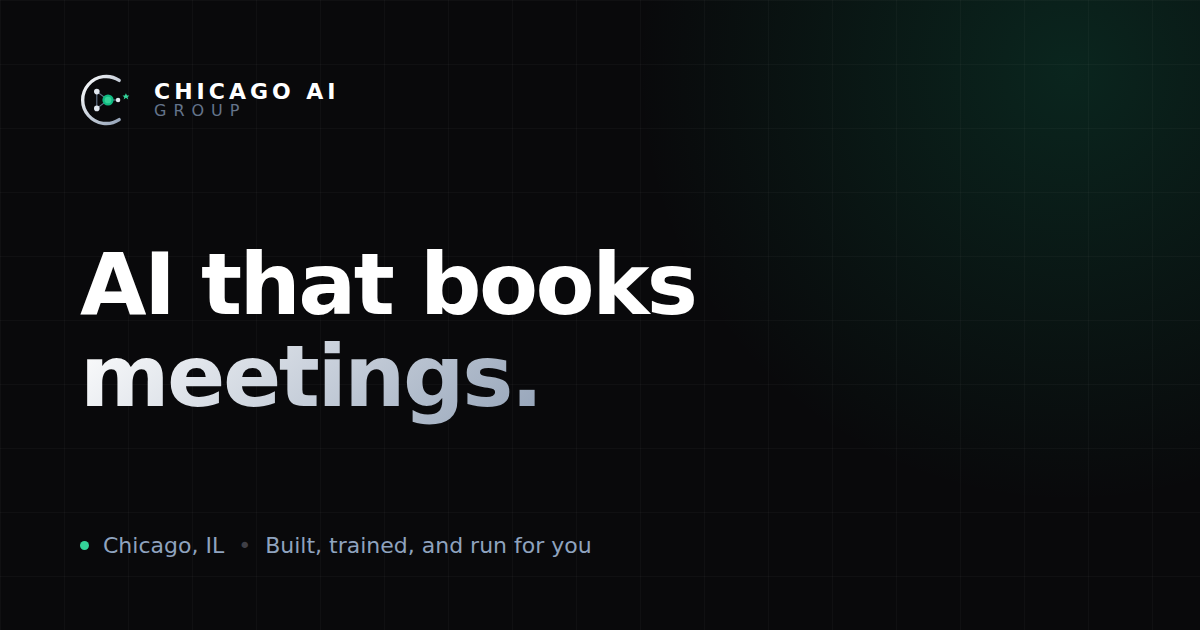
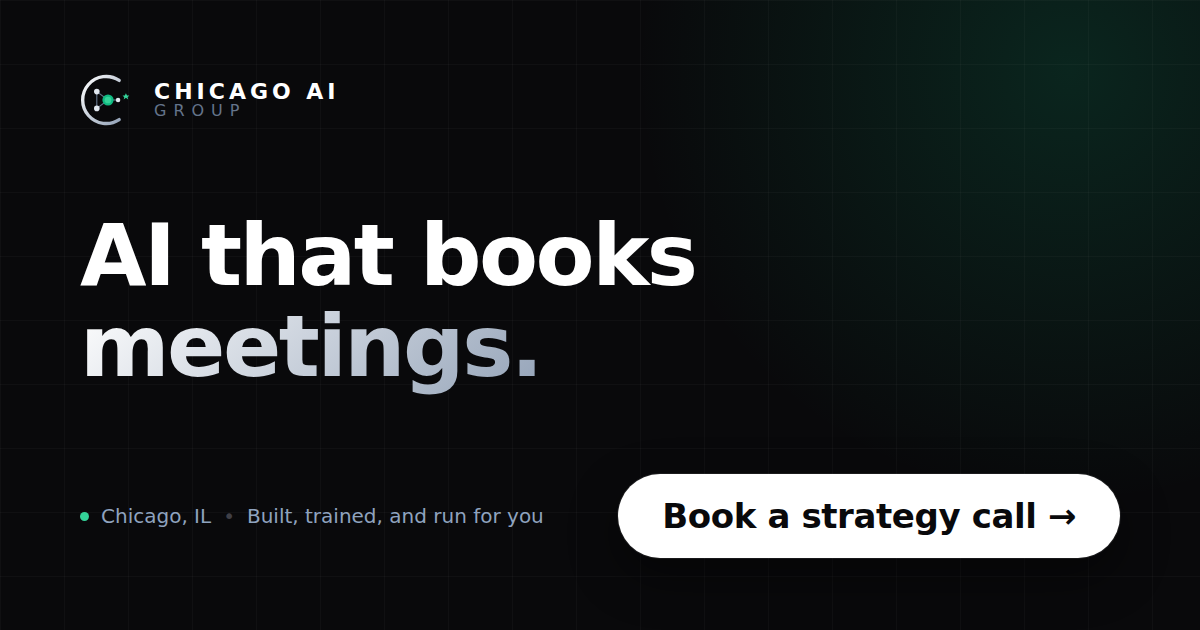
Shorten the share description and put the call to action on the card
Two inspector warnings. The homepage description ran 150 characters and was
cut mid-word at the ~125 a mobile unfurl shows -- it ended on "Built and run
fo". And the card carried the headline but nothing telling anyone what to do
next.

Description drops to 107 characters, still naming who it is for, what we do
and the timeline. One string per route feeds the meta description, the
og:description and the twitter:description, so they cannot drift. The other
routes were already 64-106 and are unchanged.

The card gains the site's white pill reading "Book a strategy call ->" in the
bottom right, opposite the location line. Everything else stays: the ground,
the grid, the mark, the headline. Setting the meta line to one line at 20px
keeps it from wrapping now that the pill takes the right half.

og:image and twitter:image gain ?v=2, without which scrapers would serve the
old card from cache indefinitely. Width and height stay 1200x630, and the alt
text now mentions the call.

The generator lived only in a scratch directory and was lost once already when
this container was rebuilt, so it now sits in scripts/og-card.html with the
re-render command and the cache-bust rule in a comment. It is the artwork, not
a copy of it.

Claude-Session: https://claude.ai/code/session_01SA99gUkuHrJz6VosbbMM5R

Changed region(s): [[0.0617, 0.3317, 0.5858, 0.6937], [0.4933, 0.754, 0.9558, 0.9048], [0.0617, 0.8143, 0.4933, 0.9048]]

diff --git a/scripts/og-card.html b/scripts/og-card.html
@@ -1,0 +1,83 @@
+<!doctype html>
+<!--
+  Source for public/og-image.png (the Open Graph / Twitter share card).
+
+  This file IS the artwork. Edit here, then re-render at exactly 1200x630 and
+  overwrite public/og-image.png, e.g. with a headless browser:
+
+    npx playwright screenshot --viewport-size=1200,630 \
+      scripts/og-card.html public/og-image.png
+
+  After changing the PNG, bump the ?v= cache-bust on og:image and twitter:image
+  in src/seo.js and index.html, or scrapers will keep serving the old card.
+
+  Keep type inside the 60px safe zone (this layout uses 72/80px padding) and keep
+  the CTA large enough to read where Slack renders the card at ~400px wide.
+-->
+<html>
+<head>
+<meta charset="utf-8">
+<link rel="preconnect" href="https://fonts.googleapis.com">
+<link rel="preconnect" href="https://fonts.gstatic.com" crossorigin>
+<link href="https://fonts.googleapis.com/css2?family=Inter:wght@400;500;600;700;800&display=swap" rel="stylesheet">
+<style>
+  * { margin:0; padding:0; box-sizing:border-box; }
+  body { width:1200px; height:630px; background:#09090b; font-family:'Inter',system-ui,sans-serif; color:#fff;
+         display:flex; flex-direction:column; justify-content:space-between; padding:72px 80px; position:relative; overflow:hidden; }
+  .glow { position:absolute; width:900px; height:900px; border-radius:50%; right:-320px; top:-380px;
+          background:radial-gradient(circle, rgba(16,185,129,0.16) 0%, rgba(16,185,129,0) 68%); }
+  .grid { position:absolute; inset:0;
+          background-image:linear-gradient(rgba(255,255,255,0.028) 1px, transparent 1px),
+                           linear-gradient(90deg, rgba(255,255,255,0.028) 1px, transparent 1px);
+          background-size:64px 64px; }
+  .row { display:flex; align-items:center; gap:18px; position:relative; }
+  .word { display:flex; flex-direction:column; line-height:1; }
+  .word .a { font-weight:600; letter-spacing:4px; font-size:22px; }
+  .word .b { font-weight:500; letter-spacing:7px; font-size:16px; color:#64748b; }
+  h1 { position:relative; font-size:86px; font-weight:800; letter-spacing:-2.5px; line-height:1.06; max-width:900px; }
+  h1 em { font-style:normal; background:linear-gradient(135deg,#fff 0%,#94a3b8 100%);
+          -webkit-background-clip:text; -webkit-text-fill-color:transparent; }
+  .bottom { position:relative; display:flex; align-items:center; justify-content:space-between; gap:40px; }
+  .meta { display:flex; align-items:center; gap:12px; font-size:20px; color:#8fa3bf; white-space:nowrap; }
+  .dot { width:9px; height:9px; border-radius:50%; background:#34d399; }
+  .sep { color:#3f3f46; }
+  /* Site's primary button: solid white pill, dark label. Sized to stay legible
+     when the card is scaled down to roughly a third for an inline unfurl. */
+  .cta { background:#fff; color:#09090b; font-size:34px; font-weight:700; letter-spacing:-0.4px;
+         padding:22px 44px; border-radius:999px; white-space:nowrap;
+         box-shadow:0 0 0 1px rgba(255,255,255,0.08), 0 18px 50px rgba(0,0,0,0.45); }
+</style>
+</head>
+<body>
+  <div class="glow"></div>
+  <div class="grid"></div>
+
+  <div class="row">
+    <svg width="56" height="56" viewBox="0 0 100 100" fill="none" xmlns="http://www.w3.org/2000/svg">
+      <path d="M70 15 A42 42 0 1 0 70 85" stroke="url(#g)" stroke-width="6" stroke-linecap="round" fill="none"/>
+      <line x1="30" y1="35" x2="50" y2="50" stroke="#64748b" stroke-width="2"/>
+      <line x1="30" y1="65" x2="50" y2="50" stroke="#64748b" stroke-width="2"/>
+      <line x1="30" y1="35" x2="30" y2="65" stroke="#64748b" stroke-width="2"/>
+      <line x1="50" y1="50" x2="68" y2="50" stroke="#64748b" stroke-width="2"/>
+      <circle cx="30" cy="35" r="5" fill="#e2e8f0"/><circle cx="30" cy="65" r="5" fill="#e2e8f0"/>
+      <circle cx="68" cy="50" r="4" fill="#e2e8f0"/>
+      <circle cx="50" cy="50" r="10" fill="#10b981"/><circle cx="50" cy="50" r="6" fill="#34d399"/>
+      <polygon points="82,38 84,42 88,42 85,45 86,49 82,46 78,49 79,45 76,42 80,42" fill="#34d399"/>
+      <defs><linearGradient id="g" x1="0%" y1="0%" x2="100%" y2="100%">
+        <stop offset="0%" stop-color="#ffffff"/><stop offset="100%" stop-color="#94a3b8"/>
+      </linearGradient></defs>
+    </svg>
+    <div class="word"><span class="a">CHICAGO AI</span><span class="b">GROUP</span></div>
+  </div>
+
+  <h1>AI that books<br><em>meetings.</em></h1>
+
+  <div class="bottom">
+    <div class="meta">
+      <span class="dot"></span><span>Chicago, IL</span>
+      <span class="sep">•</span><span>Built, trained, and run for you</span>
+    </div>
+    <div class="cta">Book a strategy call &rarr;</div>
+  </div>
+</body>
+</html>

diff --git a/index.html b/index.html
@@ -8,7 +8,7 @@
     <meta name="viewport" content="width=device-width, initial-scale=1.0" />
 
     <title>AI sales agents that book meetings | Chicago AI Group</title>
-    <meta name="description" content="Managed AI follow-up for Chicago service businesses. We qualify inbound leads, follow up, and book meetings. Built and run for you. Live in 2–4 weeks." />
+    <meta name="description" content="Managed AI follow-up for Chicago service businesses. We qualify leads and book meetings. Live in 2–4 weeks." />
 
     <!--
       Social crawlers do not run JavaScript, so this static set is what Slack, LinkedIn,
@@ -20,17 +20,17 @@
     <meta property="og:type" content="website" />
     <meta property="og:site_name" content="Chicago AI Group" />
     <meta property="og:title" content="AI sales agents that book meetings | Chicago AI Group" />
-    <meta property="og:description" content="Managed AI follow-up for Chicago service businesses. We qualify inbound leads, follow up, and book meetings. Built and run for you. Live in 2–4 weeks." />
+    <meta property="og:description" content="Managed AI follow-up for Chicago service businesses. We qualify leads and book meetings. Live in 2–4 weeks." />
     <meta property="og:url" content="https://www.chicagoaigroup.com/" />
-    <meta property="og:image" content="https://www.chicagoaigroup.com/og-image.png" />
+    <meta property="og:image" content="https://www.chicagoaigroup.com/og-image.png?v=2" />
     <meta property="og:image:width" content="1200" />
     <meta property="og:image:height" content="630" />
-    <meta property="og:image:alt" content="Chicago AI Group — AI that books meetings" />
+    <meta property="og:image:alt" content="Chicago AI Group — AI that books meetings. Book a strategy call." />
 
     <meta name="twitter:card" content="summary_large_image" />
     <meta name="twitter:title" content="AI sales agents that book meetings | Chicago AI Group" />
-    <meta name="twitter:description" content="Managed AI follow-up for Chicago service businesses. We qualify inbound leads, follow up, and book meetings. Built and run for you. Live in 2–4 weeks." />
-    <meta name="twitter:image" content="https://www.chicagoaigroup.com/og-image.png" />
+    <meta name="twitter:description" content="Managed AI follow-up for Chicago service businesses. We qualify leads and book meetings. Live in 2–4 weeks." />
+    <meta name="twitter:image" content="https://www.chicagoaigroup.com/og-image.png?v=2" />
 
     <link rel="preconnect" href="https://fonts.googleapis.com" />
     <link rel="preconnect" href="https://fonts.gstatic.com" crossorigin />

diff --git a/src/seo.js b/src/seo.js
@@ -8,13 +8,16 @@
 
 export const SITE_URL = 'https://www.chicagoaigroup.com';
 export const SITE_NAME = 'Chicago AI Group';
-export const OG_IMAGE = `${SITE_URL}/og-image.png`;
+// ?v= is a cache-bust: scrapers hold the old artwork indefinitely otherwise.
+// Bump it whenever public/og-image.png is re-rendered from scripts/og-card.html.
+export const OG_IMAGE = `${SITE_URL}/og-image.png?v=2`;
+export const OG_IMAGE_ALT = 'Chicago AI Group — AI that books meetings. Book a strategy call.';
 
 export const PAGE_META = {
   home: {
     path: '/',
     title: 'AI sales agents that book meetings | Chicago AI Group',
-    description: 'Managed AI follow-up for Chicago service businesses. We qualify inbound leads, follow up, and book meetings. Built and run for you. Live in 2–4 weeks.',
+    description: 'Managed AI follow-up for Chicago service businesses. We qualify leads and book meetings. Live in 2–4 weeks.',
   },
   sample: {
     path: '/try-it-free',

diff --git a/src/usePageMeta.js b/src/usePageMeta.js
@@ -1,5 +1,5 @@
 import { useEffect } from 'react';
-import { SITE_URL, SITE_NAME, OG_IMAGE } from './seo.js';
+import { SITE_URL, SITE_NAME, OG_IMAGE, OG_IMAGE_ALT } from './seo.js';
 
 // Tags this hook owns, so it can update or remove them without disturbing anything
 // hand-written in index.html that happens to share a name.
@@ -44,6 +44,7 @@ export function usePageMeta({ title, description, path, noindex = false }) {
     og('og:image', OG_IMAGE);
     og('og:image:width', '1200');
     og('og:image:height', '630');
+    og('og:image:alt', OG_IMAGE_ALT);
 
     meta('twitter:card', 'summary_large_image');
     meta('twitter:title', title);
